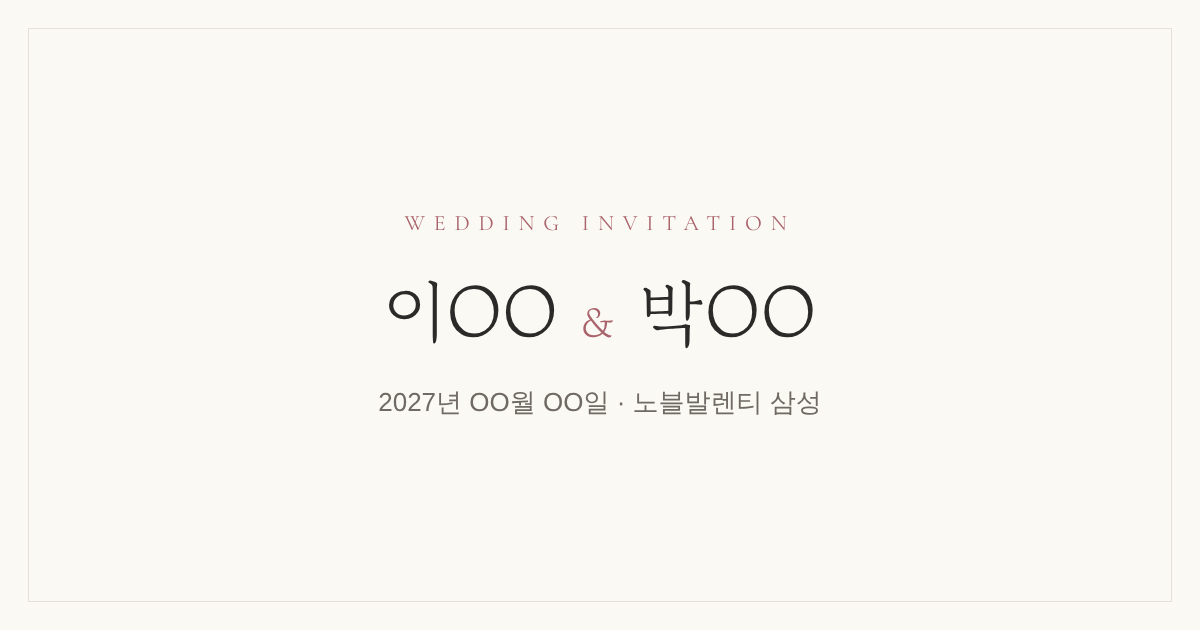
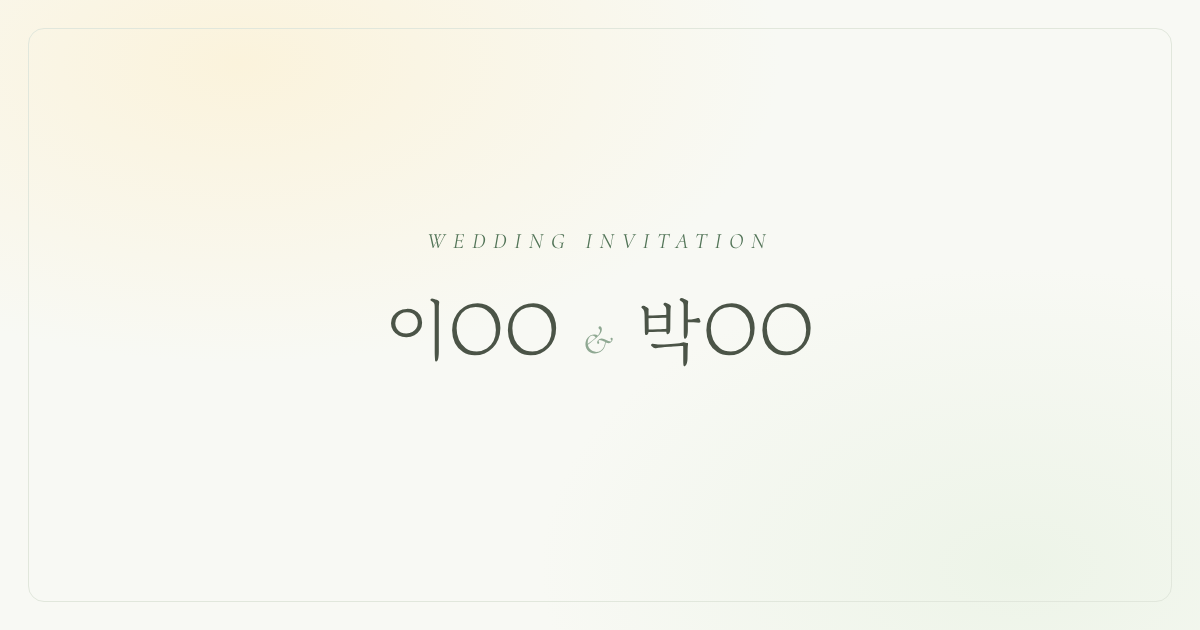
style: switch design tokens to a pastel greenery palette with softer type
Per the owner's direction (airy natural-light studio feel, greenery,
softer type and colour): background moves to a pale ivory-green, text to
a sage gray, the accent to a text-safe sage with mint, blush and butter
tints for light effects; body type becomes Gowun Dodum with Pretendard
fallback; primary buttons, the toast and the RSVP segmented control use
sage instead of near-black. The share thumbnail is regenerated in the
new palette and its cache-busting version bumped.

Claude-Session: https://claude.ai/code/session_01QvLREqfTiUVCfngJD2EegP

diff --git a/src/index.css b/src/index.css
@@ -2,23 +2,27 @@
 
 /* ---- Design tokens (single source of truth; Tailwind theme maps onto these) ---- */
 :root {
-  --color-bg: #fbf9f4;
+  /* Pastel greenery palette: airy ivory-green background, soft sage text, pale mint and blush tints */
+  --color-bg: #f8f9f4;
   --color-bg-elevated: #ffffff;
-  --color-ink: #2b2a28;
-  --color-ink-muted: #6f6a63;
-  --color-line: #e6e1d8;
-  --color-accent: #96565d; /* dusty rose, 5.3:1 on --color-bg */
-  --color-accent-soft: #f1e3e3;
-  --color-sage: #7d8b6a;
+  --color-ink: #4b5447; /* soft sage-gray, 7.5:1 on bg */
+  --color-ink-muted: #667164; /* 4.9:1 on bg */
+  --color-line: #e1e7dc;
+  --color-accent: #527457; /* text-safe sage, 5.1:1 on bg, white on it 5.0:1 */
+  --color-accent-soft: #e4eee0; /* pale mint tint */
+  --color-sage: #8fa892; /* decorative sage (not for small text) */
+  --color-blush: #f6e6e4; /* pastel blush tint */
+  --color-butter: #fbf3dc; /* warm sunlight tint */
+  --color-mint: #edf4e8; /* light mint tint */
 
-  --font-sans: 'Pretendard Variable', Pretendard, -apple-system, BlinkMacSystemFont, system-ui, 'Apple SD Gothic Neo',
-    'Noto Sans KR', sans-serif;
+  --font-sans: 'Gowun Dodum', 'Pretendard Variable', Pretendard, -apple-system, BlinkMacSystemFont, system-ui,
+    'Apple SD Gothic Neo', 'Noto Sans KR', sans-serif;
   --font-serif: 'Gowun Batang', 'Nanum Myeongjo', 'Apple SD Gothic Neo', serif;
   --font-display: 'Cormorant Garamond', 'Gowun Batang', serif;
 
   --content-max: 480px;
   --gutter: 24px;
-  --radius: 12px;
+  --radius: 16px;
 }
 
 @theme inline {
@@ -30,6 +34,9 @@
   --color-accent: var(--color-accent);
   --color-accent-soft: var(--color-accent-soft);
   --color-sage: var(--color-sage);
+  --color-blush: var(--color-blush);
+  --color-butter: var(--color-butter);
+  --color-mint: var(--color-mint);
   --font-sans: var(--font-sans);
   --font-serif: var(--font-serif);
   --font-display: var(--font-display);
@@ -76,7 +83,7 @@ img {
 }
 @media (min-width: 560px) {
   body {
-    background: #f1ede6;
+    background: linear-gradient(160deg, #eef3ea 0%, #f5f1ec 100%);
   }
   .app-frame {
     box-shadow: 0 0 0 1px var(--color-line), 0 20px 60px rgba(0, 0, 0, 0.08);

diff --git a/index.html b/index.html
@@ -3,7 +3,7 @@
   <head>
     <meta charset="UTF-8" />
     <meta name="viewport" content="width=device-width, initial-scale=1.0, viewport-fit=cover" />
-    <meta name="theme-color" content="#FBF9F4" />
+    <meta name="theme-color" content="#F8F9F4" />
     <meta name="robots" content="noindex, nofollow" />
     <link rel="icon" type="image/svg+xml" href="/favicon.svg" />
 
@@ -14,13 +14,13 @@
     <meta property="og:type" content="website" />
     <meta property="og:title" content="이OO ♥ 박OO 결혼합니다" />
     <meta property="og:description" content="2027년 OO월 OO일, 노블발렌티 삼성" />
-    <meta property="og:image" content="/og-image.png?v=1" />
+    <meta property="og:image" content="/og-image.png?v=2" />
     <meta property="og:image:width" content="1200" />
     <meta property="og:image:height" content="630" />
     <meta property="og:locale" content="ko_KR" />
     <meta name="twitter:card" content="summary_large_image" />
 
-    <!-- Fonts: Pretendard Variable (dynamic subset) for body, Gowun Batang for headings -->
+    <!-- Fonts: Gowun Dodum (soft rounded) for body with Pretendard fallback, Gowun Batang for headings, Cormorant Garamond for display -->
     <link rel="preconnect" href="https://cdn.jsdelivr.net" crossorigin />
     <link rel="preconnect" href="https://fonts.googleapis.com" />
     <link rel="preconnect" href="https://fonts.gstatic.com" crossorigin />
@@ -30,7 +30,7 @@
     />
     <link
       rel="stylesheet"
-      href="https://fonts.googleapis.com/css2?family=Gowun+Batang:wght@400;700&family=Cormorant+Garamond:ital,wght@0,400;0,500;1,400&display=swap"
+      href="https://fonts.googleapis.com/css2?family=Gowun+Batang:wght@400;700&family=Gowun+Dodum&family=Cormorant+Garamond:ital,wght@0,400;0,500;1,400;1,500&display=swap"
     />
   </head>
   <body>

diff --git a/src/components/Button.tsx b/src/components/Button.tsx
@@ -7,8 +7,8 @@ const base =
   'inline-flex items-center justify-center gap-2 rounded-full font-medium transition-colors select-none ' +
   'focus-visible:outline-2 focus-visible:outline-offset-2 focus-visible:outline-accent disabled:opacity-50'
 const variants: Record<Variant, string> = {
-  primary: 'bg-ink text-bg hover:bg-ink/90 active:bg-ink/80',
-  outline: 'border border-line bg-bg-elevated text-ink hover:bg-accent-soft/60 active:bg-accent-soft',
+  primary: 'bg-accent text-white hover:bg-accent/90 active:bg-accent/80',
+  outline: 'border border-line bg-bg-elevated/80 text-ink hover:bg-accent-soft/60 active:bg-accent-soft',
   ghost: 'text-ink-muted hover:text-ink',
 }
 const sizes: Record<Size, string> = {

diff --git a/src/sections/Rsvp/Segmented.tsx b/src/sections/Rsvp/Segmented.tsx
@@ -58,7 +58,7 @@ export default function Segmented<T extends string>({ label, value, options, onC
               disabled={disabled}
               onClick={() => onChange(option.value)}
               className={`h-10 flex-1 rounded-full text-[0.9375rem] transition-colors disabled:opacity-50 ${FOCUS_RING} ${
-                checked ? 'bg-ink font-medium text-bg' : 'text-ink-muted hover:text-ink'
+                checked ? 'bg-accent font-medium text-white' : 'text-ink-muted hover:text-ink'
               }`}
             >
               {option.label}

diff --git a/src/components/Toast.tsx b/src/components/Toast.tsx
@@ -34,7 +34,7 @@ export function ToastProvider({ children }: { children: ReactNode }) {
               animate={{ opacity: 1, y: 0 }}
               exit={{ opacity: 0, y: 8 }}
               transition={{ duration: 0.25 }}
-              className="rounded-full bg-ink/90 px-5 py-2.5 text-[0.875rem] text-bg shadow-lg"
+              className="rounded-full bg-accent/95 px-5 py-2.5 text-[0.875rem] text-white shadow-lg"
             >
               {message}
             </motion.div>

diff --git a/docs/DECISIONS.md b/docs/DECISIONS.md
@@ -5,7 +5,8 @@
 | 2026-10-25 | 프레임워크 | Vite 8 + React 19 + TypeScript 6 + Tailwind CSS 4 | 정적 단일 페이지, 참고 오픈소스와 같은 조합 |
 | 2026-10-25 | 배포 | GitHub Actions → GitHub Pages | 사용자 지시. `deploy.yml`, `VITE_BASE=/<repo>/` |
 | 2026-10-25 | 방명록·RSVP 저장소 | Google Apps Script + Google Sheets | 사용자 지시. Google 로그인은 추후. 그 전까지 localStorage 미리보기 모드 |
-| 2026-10-25 | 디자인 초안 | 편집형 미니멀(아이보리 배경, 먹색 글자, 더스티 로즈 강조, 명조 제목) | 초안용 기본값. 콘셉트 A~D 확정 시 토큰만 교체 |
+| 2026-10-25 | 디자인 초안 | 편집형 미니멀(아이보리 배경, 먹색 글자, 더스티 로즈 강조, 명조 제목) | 초안용 기본값. 같은 날 아래 결정으로 대체 |
+| 2026-10-25 | 디자인 방향 변경 | 파스텔 그리너리: 연한 아이보리그린 배경(#f8f9f4), 세이지 그레이 글자(#4b5447), 세이지 강조(#527457), 민트·블러시·버터 틴트, 본문 Gowun Dodum, 제목 Gowun Batang, 빛 번짐·꽃잎 드리프트·라이트 리크·식물 디바이더 이펙트 | 사용자 지시(어로브 스튜디오 톤, 살랑이는 빛). 스튜디오 실제 색감은 미확인이라 설명 기준으로 적용, 사진 수령 후 팔레트 보정 |
 | 2026-10-25 | 예식장 | 노블발렌티 삼성 | 주소 "서울 강남구 봉은사로 637"은 예식 정보 사이트 2곳 기준, 예식장에 확인 필요. 좌표는 임시 |
 | 2026-10-25 | 예식 일시 | 2027년 OO월 OO일 (임시 instant 2027-05-15 12:00 KST) | `datePlaceholder: true`로 화면에는 OO 표기, 확정 시 `startsAt` 교체 후 플래그 해제 |
 | 2026-10-25 | 사진 | 생성형 SVG 플레이스홀더 14장 | `npm run placeholders`. 실제 사진은 WebP 변환 후 교체 |

diff --git a/CLAUDE.md b/CLAUDE.md
@@ -8,7 +8,7 @@ Mobile wedding invitation (Korean). Vite + React 19 + TypeScript + Tailwind CSS 
 - Shared UI: `Button`, `CopyButton`, `Toast` (`ToastProvider`; hook `useToast` from `@/components/toast-context`), `Section`, `Reveal`, `SmoothScroll` in `src/components`.
 - Dates: use helpers in `src/lib/date.ts` (KST-fixed). Respect `wedding.event.datePlaceholder` (print "OO월 OO일", "D-OOO").
 - Assets under `public/` must be referenced via `asset()` from `@/lib/env` (handles the GitHub Pages base path).
-- Styling: Tailwind utilities + tokens from `src/index.css` (`bg-bg`, `text-ink`, `text-ink-muted`, `border-line`, `text-accent`, `bg-accent-soft`, `font-serif`, `font-display`). Mobile first, max content width 480px, 24px gutters. Body text ≥ 15px, contrast ≥ 4.5:1.
+- Styling: Tailwind utilities + tokens from `src/index.css` (`bg-bg`, `text-ink`, `text-ink-muted`, `border-line`, `text-accent`, `bg-accent-soft`, `bg-blush`, `bg-butter`, `bg-mint`, `font-serif`, `font-display`). Palette is pastel greenery: sage accent, mint/blush/butter tints; never use near-black fills. Mobile first, max content width 480px, 24px gutters. Body text ≥ 15px, contrast ≥ 4.5:1.
 - Motion: `motion/react` only. 0.4–0.8 s, ease-out, at most two moving elements per viewport. Honor `prefers-reduced-motion`.
 - Icons: `lucide-react`.
 - Imports use the `@/` alias for `src/`.
